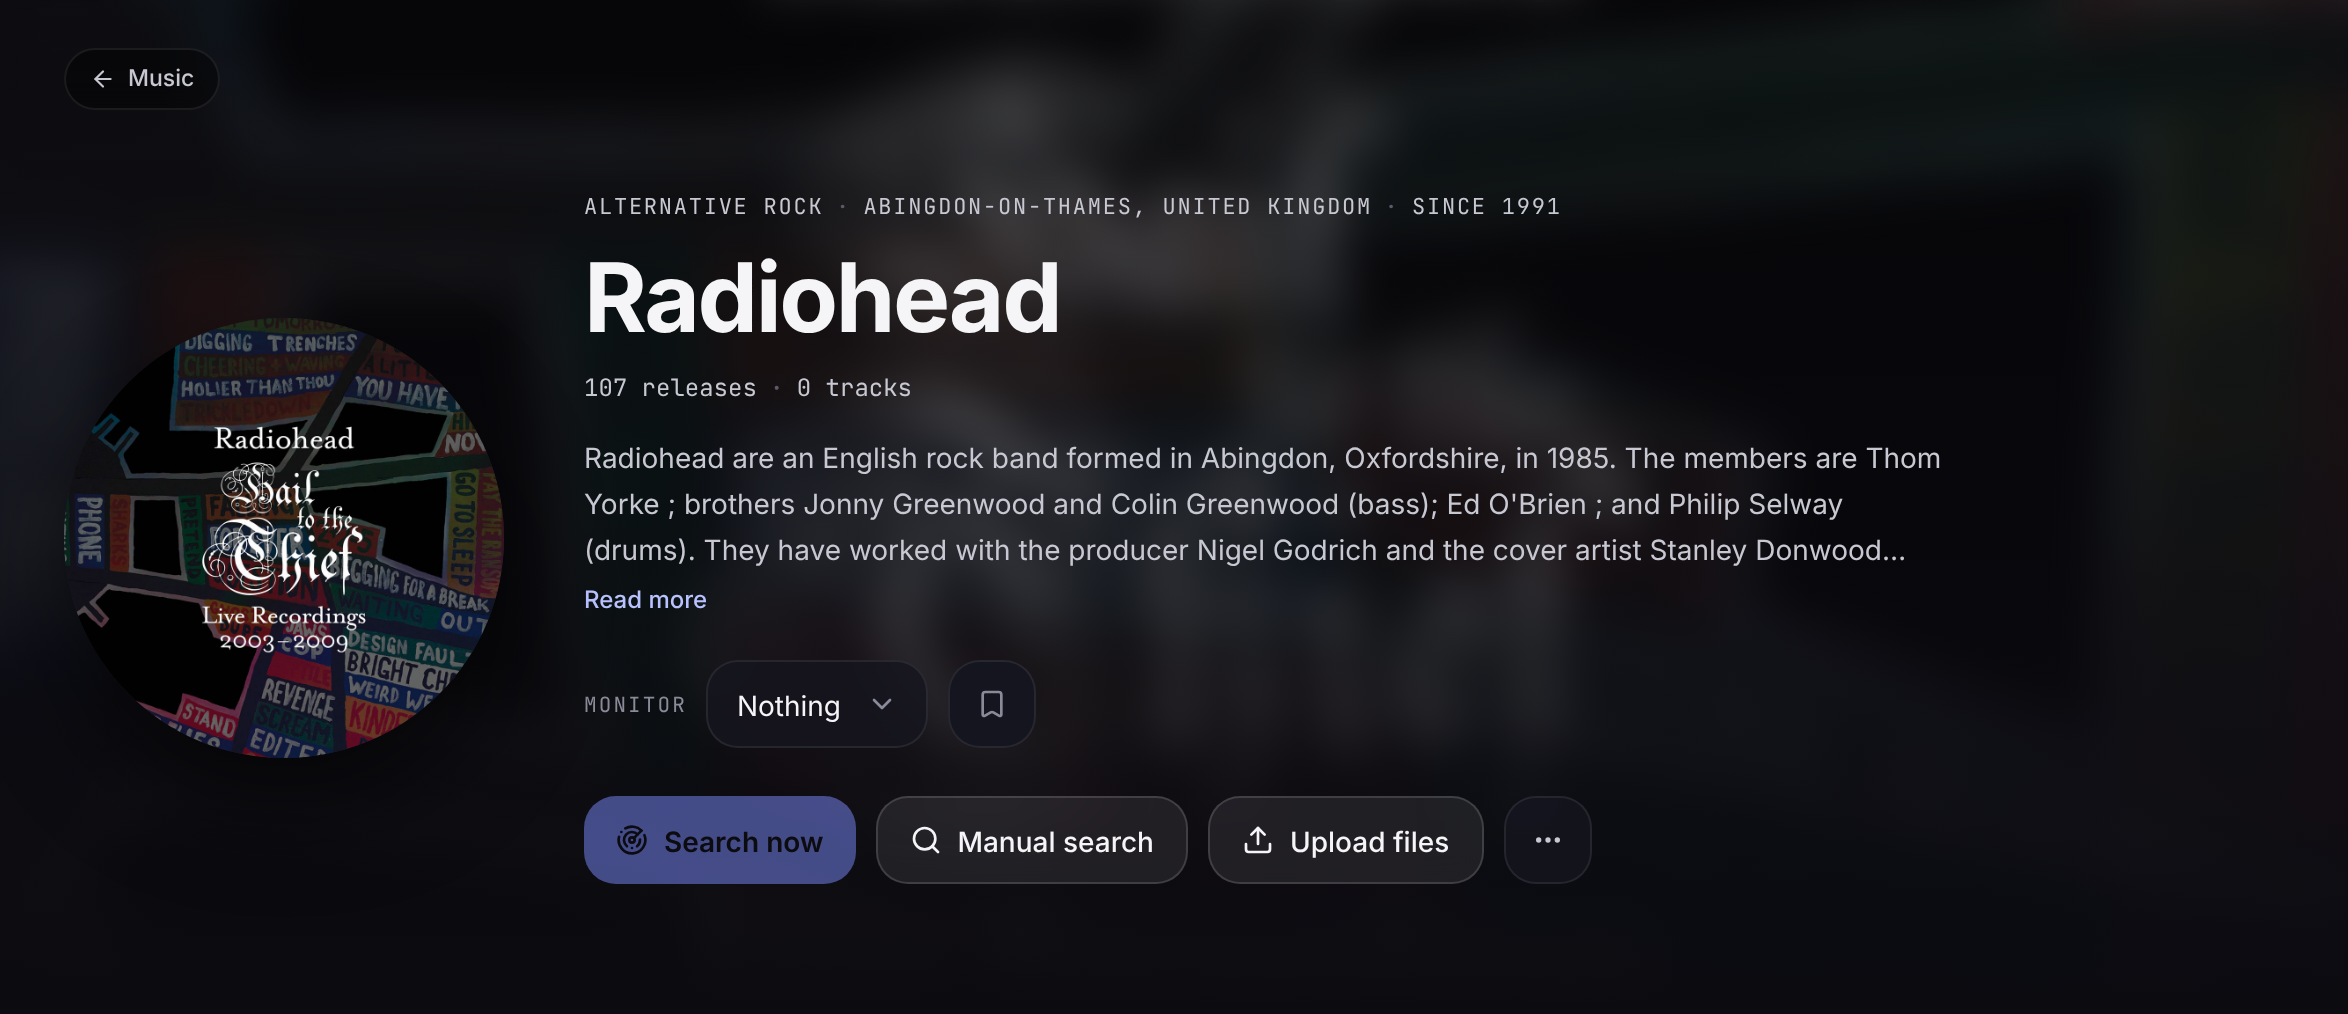
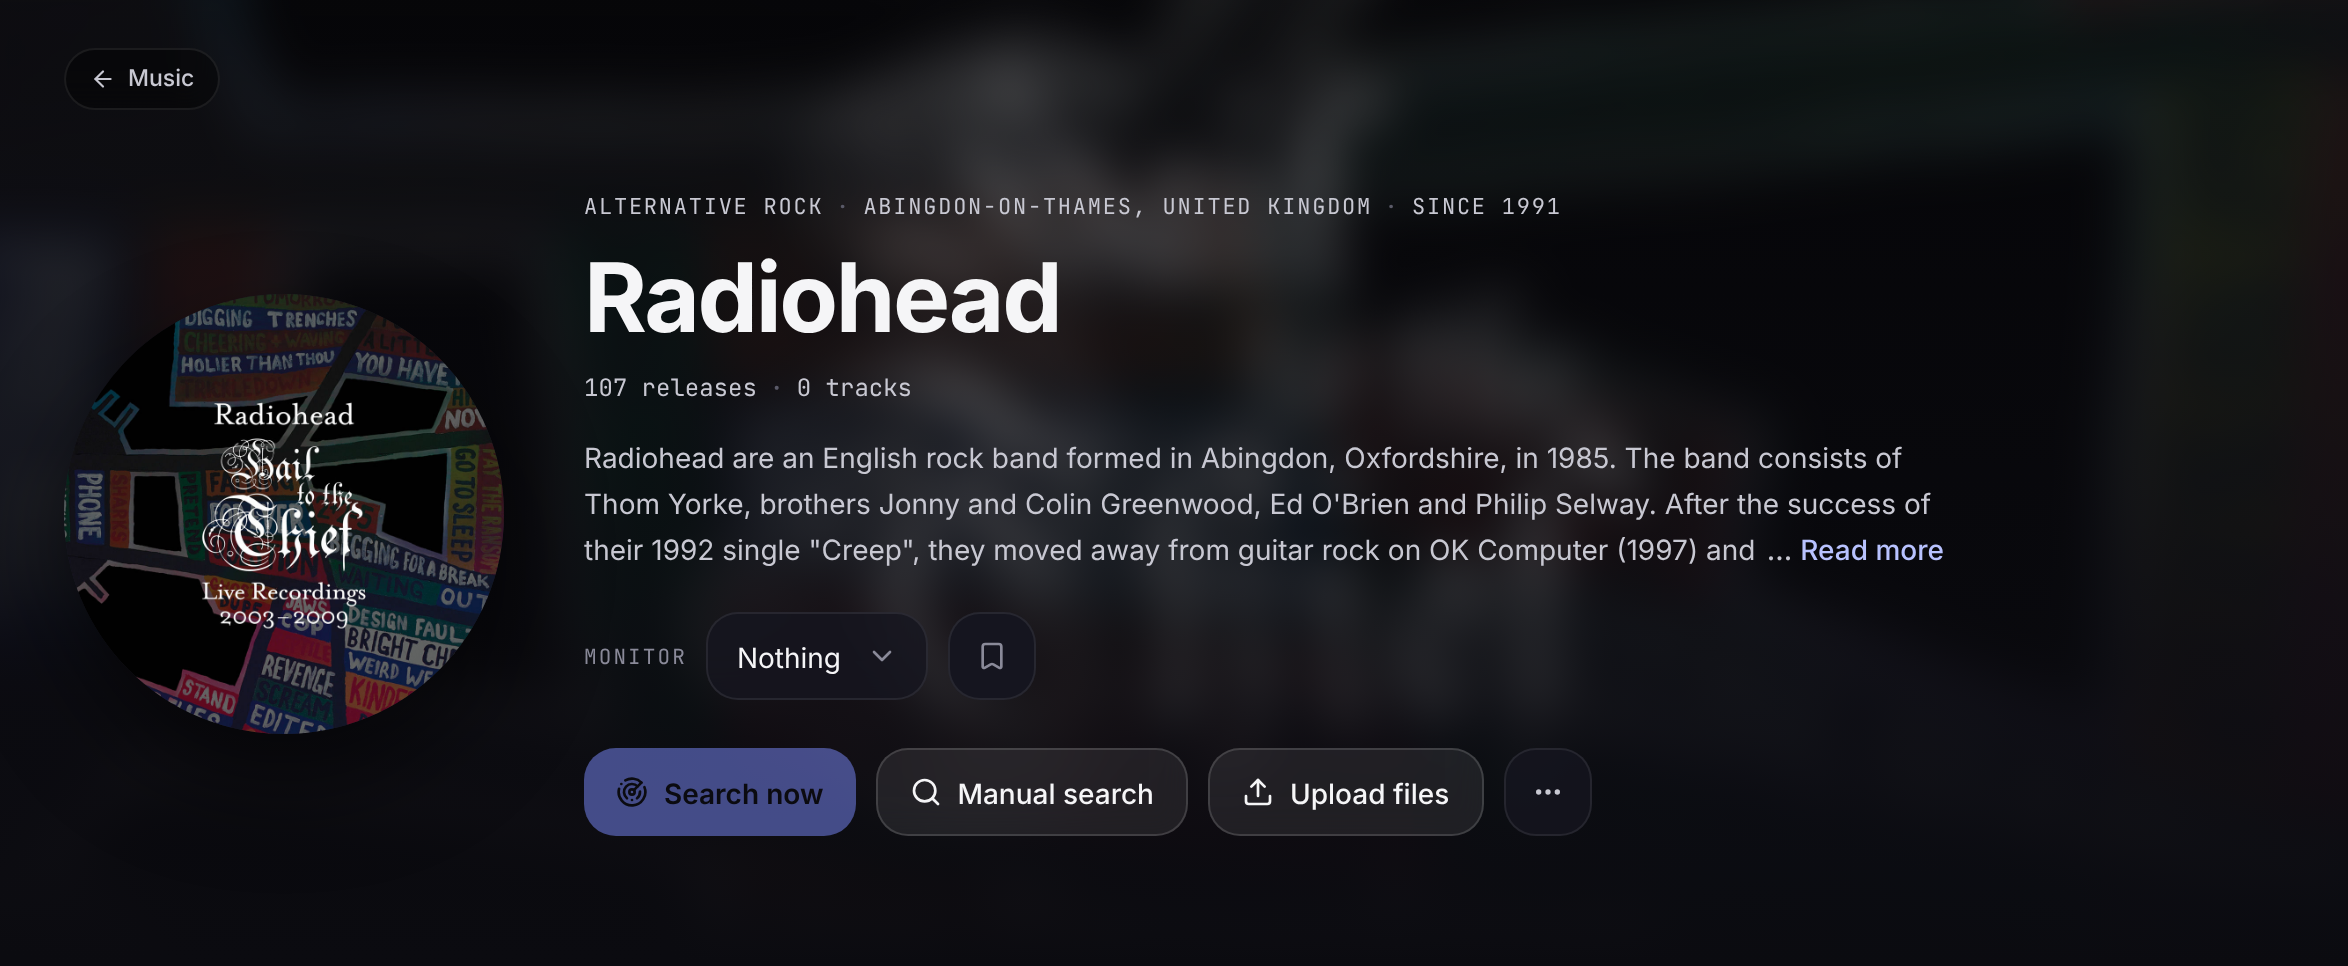
docs: screenshots with the toggle at the end of the last line

diff --git a/README.md b/README.md
@@ -1,3 +1,3 @@
 # Screenshots for DataHearth/streamline#191
 
-Overview "Read more" toggle, before/after, at 1440, 820 and 390 px. Seeded fictional series and movie, Radiohead added from MusicBrainz.
+Overview "Read more" toggle, before/after, at 1440, 820 and 390 px. Seeded fictional series and movie, Radiohead added from MusicBrainz (its overview was written into the scratch database for the second round, after Wikipedia returned none).
